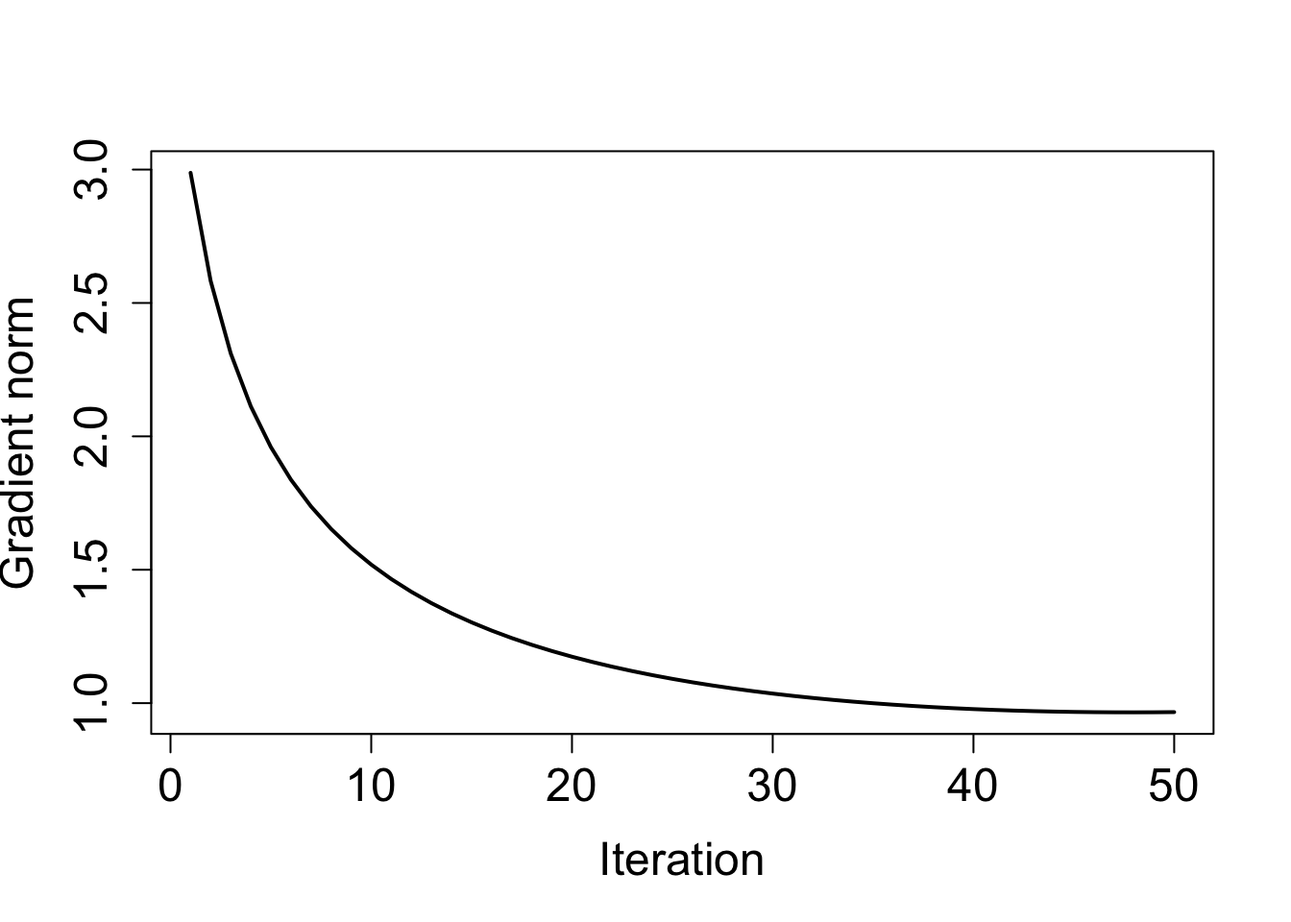
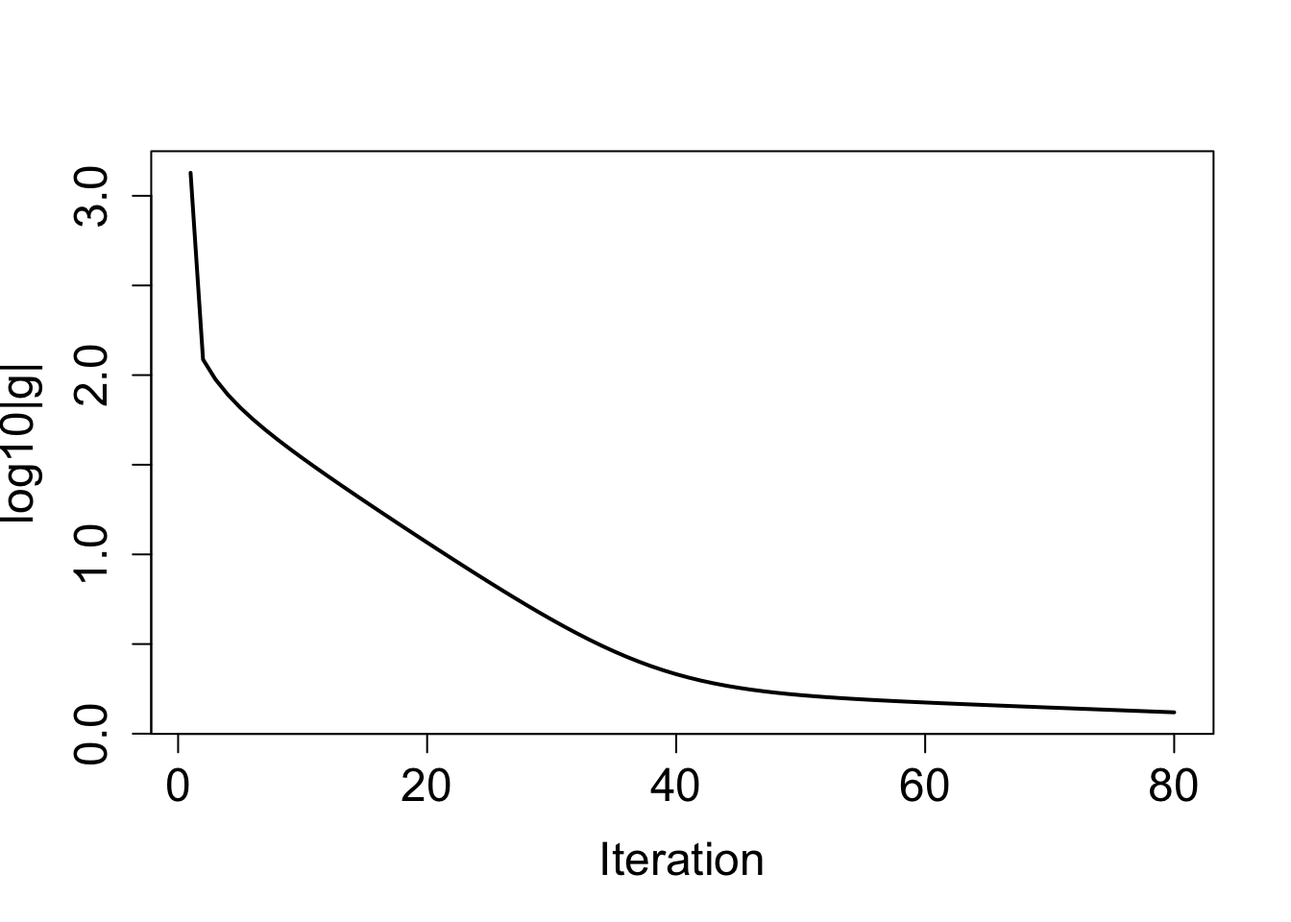
update predator-prey
FossilOrigin-Name: d74cfb4571f42729bfbab4a6f4a8c74286447cb65f26eedfba6759e423d97d23

diff --git a/docs/posts/predator-prey.html b/docs/posts/predator-prey.html
@@ -324,7 +324,7 @@ L(\mathbf{x}, \mathbf{z}, \lambda) = J(\mathbf{x}, z_1, \dots, z_{N}) - \lambda_
 \tag{2}\]</span></span></p>
 <p>ここで<span class="math inline">\(\boldsymbol\lambda = (\lambda_1,\dots,\lambda_{N+1})^\mathrm{T}\)</span>はLagrangeの未定乗数である。 Lagrange函数の鞍点は、<span class="math inline">\(\mathbf{x},\mathbf{z}, \boldsymbol\lambda\)</span>空間で<span class="math inline">\(L\)</span>の微分が同時に0に一点である。 鞍点では、<span class="math inline">\(\partial L/\partial \boldsymbol\lambda\)</span>から支配方程式(<a href="#eq-predator-prey-forward" class="quarto-xref">Equation&nbsp;1</a>) が得られる。</p>
 <p>また、<span class="math inline">\(\partial L/\partial \mathbf{z}\)</span>から随伴方程式 <span id="eq-predator-prey-adjoint"><span class="math display">\[
-\lambda_{N+1} = 1,\;\lambda_n = \sum_{i=n+1}^{N+1} \frac{\partial f_i}{\partial z_n}\lambda_{i} ,\;n = N, \dots, 1
+\lambda_{N+1} = \frac{\partial J}{\partial z_{N+1}},\;\lambda_n = \frac{\partial J}{\partial z_n} + \sum_{i=n+1}^{N+1} \frac{\partial f_i}{\partial z_n}\lambda_{i} ,\;n = N, \dots, 1
 \tag{3}\]</span></span> が得られる。</p>
 <p>さらに、<span class="math inline">\(\partial L/\partial \mathbf{x}\)</span>からコスト函数の入力に対する微分、</p>
 <p><span class="math display">\[
@@ -379,30 +379,39 @@ L = \dots -\lambda_Y(Y - G(X, \dots)) - \lambda_Z(Z - F(X, Y, \dots)) + \dots
 <span id="cb4-10"><a href="#cb4-10" aria-hidden="true" tabindex="-1"></a>  <span class="fu">list</span>(<span class="at">x =</span> x, <span class="at">y =</span> y)</span>
 <span id="cb4-11"><a href="#cb4-11" aria-hidden="true" tabindex="-1"></a>}</span>
 <span id="cb4-12"><a href="#cb4-12" aria-hidden="true" tabindex="-1"></a></span>
-<span id="cb4-13"><a href="#cb4-13" aria-hidden="true" tabindex="-1"></a>adjoint <span class="ot">&lt;-</span> <span class="cf">function</span>(dt, a, x, y) {</span>
+<span id="cb4-13"><a href="#cb4-13" aria-hidden="true" tabindex="-1"></a>adjoint <span class="ot">&lt;-</span> <span class="cf">function</span>(dt, a, x, y, xo, yo, tobs) {</span>
 <span id="cb4-14"><a href="#cb4-14" aria-hidden="true" tabindex="-1"></a>  nmax <span class="ot">&lt;-</span> <span class="fu">length</span>(x)</span>
 <span id="cb4-15"><a href="#cb4-15" aria-hidden="true" tabindex="-1"></a>  aa <span class="ot">&lt;-</span> <span class="fu">rep</span>(<span class="dv">0</span>, <span class="fu">length</span>(a))</span>
-<span id="cb4-16"><a href="#cb4-16" aria-hidden="true" tabindex="-1"></a>  ax <span class="ot">&lt;-</span> <span class="fu">rep</span>(<span class="dv">0</span>, nmax<span class="sc">+</span><span class="dv">1</span>)</span>
-<span id="cb4-17"><a href="#cb4-17" aria-hidden="true" tabindex="-1"></a>  ay <span class="ot">&lt;-</span> <span class="fu">rep</span>(<span class="dv">0</span>, nmax<span class="sc">+</span><span class="dv">1</span>)</span>
-<span id="cb4-18"><a href="#cb4-18" aria-hidden="true" tabindex="-1"></a>  ax[nmax<span class="sc">+</span><span class="dv">1</span>] <span class="ot">&lt;-</span> <span class="dv">1</span></span>
-<span id="cb4-19"><a href="#cb4-19" aria-hidden="true" tabindex="-1"></a>  ay[nmax<span class="sc">+</span><span class="dv">1</span>] <span class="ot">&lt;-</span> <span class="dv">1</span></span>
-<span id="cb4-20"><a href="#cb4-20" aria-hidden="true" tabindex="-1"></a>  <span class="cf">for</span> (n <span class="cf">in</span> (nmax)<span class="sc">:</span><span class="dv">1</span>) {</span>
-<span id="cb4-21"><a href="#cb4-21" aria-hidden="true" tabindex="-1"></a>    aa[<span class="dv">6</span>] <span class="ot">&lt;-</span> aa[<span class="dv">6</span>] <span class="sc">+</span> dt <span class="sc">*</span> x[n] <span class="sc">*</span> y[n] <span class="sc">*</span> ay[n<span class="sc">+</span><span class="dv">1</span>]</span>
-<span id="cb4-22"><a href="#cb4-22" aria-hidden="true" tabindex="-1"></a>    aa[<span class="dv">5</span>] <span class="ot">&lt;-</span> aa[<span class="dv">5</span>] <span class="sc">+</span> dt <span class="sc">*</span> y[n] <span class="sc">*</span> y[n] <span class="sc">*</span> ay[n<span class="sc">+</span><span class="dv">1</span>]</span>
-<span id="cb4-23"><a href="#cb4-23" aria-hidden="true" tabindex="-1"></a>    aa[<span class="dv">4</span>] <span class="ot">&lt;-</span> aa[<span class="dv">4</span>] <span class="sc">+</span> dt <span class="sc">*</span> y[n] <span class="sc">*</span> ay[n<span class="sc">+</span><span class="dv">1</span>]</span>
-<span id="cb4-24"><a href="#cb4-24" aria-hidden="true" tabindex="-1"></a>    ax[n] <span class="ot">&lt;-</span> ax[n] <span class="sc">+</span> dt <span class="sc">*</span> a[<span class="dv">6</span>] <span class="sc">*</span> y[n] <span class="sc">*</span> ay[n<span class="sc">+</span><span class="dv">1</span>]</span>
-<span id="cb4-25"><a href="#cb4-25" aria-hidden="true" tabindex="-1"></a>    ay[n] <span class="ot">&lt;-</span> ay[n] <span class="sc">+</span> dt <span class="sc">*</span> a[<span class="dv">5</span>] <span class="sc">*</span> y[n] <span class="sc">*</span> ay[n<span class="sc">+</span><span class="dv">1</span>]</span>
-<span id="cb4-26"><a href="#cb4-26" aria-hidden="true" tabindex="-1"></a>    ay[n] <span class="ot">&lt;-</span> ay[n]  <span class="sc">+</span> (<span class="dv">1</span> <span class="sc">+</span> dt <span class="sc">*</span> (a[<span class="dv">4</span>] <span class="sc">+</span> a[<span class="dv">5</span>] <span class="sc">*</span> y[n] <span class="sc">+</span> a[<span class="dv">6</span>] <span class="sc">*</span> x[n])) <span class="sc">*</span> ay[n<span class="sc">+</span><span class="dv">1</span>]</span>
-<span id="cb4-27"><a href="#cb4-27" aria-hidden="true" tabindex="-1"></a>    aa[<span class="dv">3</span>] <span class="ot">&lt;-</span> aa[<span class="dv">3</span>] <span class="sc">+</span> dt <span class="sc">*</span> y[n] <span class="sc">*</span> x[n] <span class="sc">*</span> ax[n<span class="sc">+</span><span class="dv">1</span>]</span>
-<span id="cb4-28"><a href="#cb4-28" aria-hidden="true" tabindex="-1"></a>    aa[<span class="dv">2</span>] <span class="ot">&lt;-</span> aa[<span class="dv">2</span>] <span class="sc">+</span> dt <span class="sc">*</span> x[n] <span class="sc">*</span> x[n] <span class="sc">*</span> ax[n<span class="sc">+</span><span class="dv">1</span>]</span>
-<span id="cb4-29"><a href="#cb4-29" aria-hidden="true" tabindex="-1"></a>    aa[<span class="dv">1</span>] <span class="ot">&lt;-</span> aa[<span class="dv">1</span>] <span class="sc">+</span> dt <span class="sc">*</span> x[n] <span class="sc">*</span> ax[n<span class="sc">+</span><span class="dv">1</span>]</span>
-<span id="cb4-30"><a href="#cb4-30" aria-hidden="true" tabindex="-1"></a>    ay[n] <span class="ot">&lt;-</span> ay[n] <span class="sc">+</span> dt <span class="sc">*</span> a[<span class="dv">3</span>] <span class="sc">*</span> x[n] <span class="sc">*</span> ax[n<span class="sc">+</span><span class="dv">1</span>]</span>
-<span id="cb4-31"><a href="#cb4-31" aria-hidden="true" tabindex="-1"></a>    ax[n] <span class="ot">&lt;-</span> ax[n] <span class="sc">+</span> dt <span class="sc">*</span> a[<span class="dv">2</span>] <span class="sc">*</span> x[n] <span class="sc">*</span> ax[n<span class="sc">+</span><span class="dv">1</span>]</span>
-<span id="cb4-32"><a href="#cb4-32" aria-hidden="true" tabindex="-1"></a>    ax[n] <span class="ot">&lt;-</span> ax[n] <span class="sc">+</span> (<span class="dv">1</span> <span class="sc">+</span> dt <span class="sc">*</span> (a[<span class="dv">1</span>] <span class="sc">+</span> a[<span class="dv">2</span>] <span class="sc">*</span> x[n] <span class="sc">+</span> a[<span class="dv">3</span>] <span class="sc">*</span> y[n])) <span class="sc">*</span> ax[n<span class="sc">+</span><span class="dv">1</span>]</span>
-<span id="cb4-33"><a href="#cb4-33" aria-hidden="true" tabindex="-1"></a><span class="co">#    cat(n, ":", aa, ax[n], ay[n], "\n")</span></span>
-<span id="cb4-34"><a href="#cb4-34" aria-hidden="true" tabindex="-1"></a>  }</span>
-<span id="cb4-35"><a href="#cb4-35" aria-hidden="true" tabindex="-1"></a>  <span class="fu">c</span>(aa, ax[<span class="dv">1</span>], ay[<span class="dv">1</span>])</span>
-<span id="cb4-36"><a href="#cb4-36" aria-hidden="true" tabindex="-1"></a>}</span></code><button title="Copy to Clipboard" class="code-copy-button"><i class="bi"></i></button></pre></div>
+<span id="cb4-16"><a href="#cb4-16" aria-hidden="true" tabindex="-1"></a>  ax <span class="ot">&lt;-</span> <span class="fu">rep</span>(<span class="dv">0</span>, nmax)</span>
+<span id="cb4-17"><a href="#cb4-17" aria-hidden="true" tabindex="-1"></a>  ay <span class="ot">&lt;-</span> <span class="fu">rep</span>(<span class="dv">0</span>, nmax)</span>
+<span id="cb4-18"><a href="#cb4-18" aria-hidden="true" tabindex="-1"></a>  <span class="cf">for</span> (n <span class="cf">in</span> (nmax<span class="dv">-1</span>)<span class="sc">:</span><span class="dv">1</span>) {</span>
+<span id="cb4-19"><a href="#cb4-19" aria-hidden="true" tabindex="-1"></a><span class="co">#    if (n == 1) {</span></span>
+<span id="cb4-20"><a href="#cb4-20" aria-hidden="true" tabindex="-1"></a><span class="co">#      ax[2] &lt;- ax[2] * 2</span></span>
+<span id="cb4-21"><a href="#cb4-21" aria-hidden="true" tabindex="-1"></a><span class="co">#      ay[2] &lt;- ay[2] * 2</span></span>
+<span id="cb4-22"><a href="#cb4-22" aria-hidden="true" tabindex="-1"></a><span class="co">#    }</span></span>
+<span id="cb4-23"><a href="#cb4-23" aria-hidden="true" tabindex="-1"></a>    aa[<span class="dv">6</span>] <span class="ot">&lt;-</span> aa[<span class="dv">6</span>] <span class="sc">+</span> dt <span class="sc">*</span> x[n] <span class="sc">*</span> y[n] <span class="sc">*</span> ay[n<span class="sc">+</span><span class="dv">1</span>]</span>
+<span id="cb4-24"><a href="#cb4-24" aria-hidden="true" tabindex="-1"></a>    aa[<span class="dv">5</span>] <span class="ot">&lt;-</span> aa[<span class="dv">5</span>] <span class="sc">+</span> dt <span class="sc">*</span> y[n] <span class="sc">*</span> y[n] <span class="sc">*</span> ay[n<span class="sc">+</span><span class="dv">1</span>]</span>
+<span id="cb4-25"><a href="#cb4-25" aria-hidden="true" tabindex="-1"></a>    aa[<span class="dv">4</span>] <span class="ot">&lt;-</span> aa[<span class="dv">4</span>] <span class="sc">+</span> dt <span class="sc">*</span> y[n] <span class="sc">*</span> ay[n<span class="sc">+</span><span class="dv">1</span>]</span>
+<span id="cb4-26"><a href="#cb4-26" aria-hidden="true" tabindex="-1"></a>    ax[n] <span class="ot">&lt;-</span> ax[n] <span class="sc">+</span> dt <span class="sc">*</span> a[<span class="dv">6</span>] <span class="sc">*</span> y[n] <span class="sc">*</span> ay[n<span class="sc">+</span><span class="dv">1</span>]</span>
+<span id="cb4-27"><a href="#cb4-27" aria-hidden="true" tabindex="-1"></a>    ay[n] <span class="ot">&lt;-</span> ay[n] <span class="sc">+</span> dt <span class="sc">*</span> a[<span class="dv">5</span>] <span class="sc">*</span> y[n] <span class="sc">*</span> ay[n<span class="sc">+</span><span class="dv">1</span>]</span>
+<span id="cb4-28"><a href="#cb4-28" aria-hidden="true" tabindex="-1"></a>    ay[n] <span class="ot">&lt;-</span> ay[n]  <span class="sc">+</span> (<span class="dv">1</span> <span class="sc">+</span> dt <span class="sc">*</span> (a[<span class="dv">4</span>] <span class="sc">+</span> a[<span class="dv">5</span>] <span class="sc">*</span> y[n] <span class="sc">+</span> a[<span class="dv">6</span>] <span class="sc">*</span> x[n])) <span class="sc">*</span> ay[n<span class="sc">+</span><span class="dv">1</span>]</span>
+<span id="cb4-29"><a href="#cb4-29" aria-hidden="true" tabindex="-1"></a>    aa[<span class="dv">3</span>] <span class="ot">&lt;-</span> aa[<span class="dv">3</span>] <span class="sc">+</span> dt <span class="sc">*</span> y[n] <span class="sc">*</span> x[n] <span class="sc">*</span> ax[n<span class="sc">+</span><span class="dv">1</span>]</span>
+<span id="cb4-30"><a href="#cb4-30" aria-hidden="true" tabindex="-1"></a>    aa[<span class="dv">2</span>] <span class="ot">&lt;-</span> aa[<span class="dv">2</span>] <span class="sc">+</span> dt <span class="sc">*</span> x[n] <span class="sc">*</span> x[n] <span class="sc">*</span> ax[n<span class="sc">+</span><span class="dv">1</span>]</span>
+<span id="cb4-31"><a href="#cb4-31" aria-hidden="true" tabindex="-1"></a>    aa[<span class="dv">1</span>] <span class="ot">&lt;-</span> aa[<span class="dv">1</span>] <span class="sc">+</span> dt <span class="sc">*</span> x[n] <span class="sc">*</span> ax[n<span class="sc">+</span><span class="dv">1</span>]</span>
+<span id="cb4-32"><a href="#cb4-32" aria-hidden="true" tabindex="-1"></a>    ay[n] <span class="ot">&lt;-</span> ay[n] <span class="sc">+</span> dt <span class="sc">*</span> a[<span class="dv">3</span>] <span class="sc">*</span> x[n] <span class="sc">*</span> ax[n<span class="sc">+</span><span class="dv">1</span>]</span>
+<span id="cb4-33"><a href="#cb4-33" aria-hidden="true" tabindex="-1"></a>    ax[n] <span class="ot">&lt;-</span> ax[n] <span class="sc">+</span> dt <span class="sc">*</span> a[<span class="dv">2</span>] <span class="sc">*</span> x[n] <span class="sc">*</span> ax[n<span class="sc">+</span><span class="dv">1</span>]</span>
+<span id="cb4-34"><a href="#cb4-34" aria-hidden="true" tabindex="-1"></a>    ax[n] <span class="ot">&lt;-</span> ax[n] <span class="sc">+</span> (<span class="dv">1</span> <span class="sc">+</span> dt <span class="sc">*</span> (a[<span class="dv">1</span>] <span class="sc">+</span> a[<span class="dv">2</span>] <span class="sc">*</span> x[n] <span class="sc">+</span> a[<span class="dv">3</span>] <span class="sc">*</span> y[n])) <span class="sc">*</span> ax[n<span class="sc">+</span><span class="dv">1</span>]</span>
+<span id="cb4-35"><a href="#cb4-35" aria-hidden="true" tabindex="-1"></a>    <span class="cf">if</span> (n <span class="sc">%in%</span> tobs) {</span>
+<span id="cb4-36"><a href="#cb4-36" aria-hidden="true" tabindex="-1"></a>      <span class="co"># add dJ/dx and dJ/dy</span></span>
+<span id="cb4-37"><a href="#cb4-37" aria-hidden="true" tabindex="-1"></a> <span class="co">#     cat("Observation at time:", n, "dx=", x[n] - xo[n], "dy", y[n] - yo[n], "\n")</span></span>
+<span id="cb4-38"><a href="#cb4-38" aria-hidden="true" tabindex="-1"></a>      ax[n] <span class="ot">&lt;-</span> ax[n] <span class="sc">+</span> (x[n] <span class="sc">-</span> xo[n])</span>
+<span id="cb4-39"><a href="#cb4-39" aria-hidden="true" tabindex="-1"></a>      ay[n] <span class="ot">&lt;-</span> ay[n] <span class="sc">+</span> (y[n] <span class="sc">-</span> yo[n])</span>
+<span id="cb4-40"><a href="#cb4-40" aria-hidden="true" tabindex="-1"></a>    }</span>
+<span id="cb4-41"><a href="#cb4-41" aria-hidden="true" tabindex="-1"></a> <span class="co">#   cat(n, ":", aa, ax[n], ay[n], "\n")</span></span>
+<span id="cb4-42"><a href="#cb4-42" aria-hidden="true" tabindex="-1"></a>  }</span>
+<span id="cb4-43"><a href="#cb4-43" aria-hidden="true" tabindex="-1"></a><span class="co">#  cat("Final adjoint state:", aa, "\n")</span></span>
+<span id="cb4-44"><a href="#cb4-44" aria-hidden="true" tabindex="-1"></a>  <span class="fu">c</span>(aa, ax[<span class="dv">1</span>], ay[<span class="dv">1</span>])</span>
+<span id="cb4-45"><a href="#cb4-45" aria-hidden="true" tabindex="-1"></a>}</span></code><button title="Copy to Clipboard" class="code-copy-button"><i class="bi"></i></button></pre></div>
 </div>
 </section>
 <section id="同化実験" class="level2">
@@ -411,18 +420,18 @@ L = \dots -\lambda_Y(Y - G(X, \dots)) - \lambda_Z(Z - F(X, Y, \dots)) + \dots
 <div class="cell">
 <div class="sourceCode cell-code" id="cb5"><pre class="sourceCode r code-with-copy"><code class="sourceCode r"><span id="cb5-1"><a href="#cb5-1" aria-hidden="true" tabindex="-1"></a>nmax <span class="ot">&lt;-</span> <span class="dv">501</span></span>
 <span id="cb5-2"><a href="#cb5-2" aria-hidden="true" tabindex="-1"></a>dt <span class="ot">&lt;-</span> <span class="fl">0.001</span></span>
-<span id="cb5-3"><a href="#cb5-3" aria-hidden="true" tabindex="-1"></a>a <span class="ot">&lt;-</span> <span class="fu">c</span>(<span class="dv">4</span>, <span class="sc">-</span><span class="dv">2</span>, <span class="sc">-</span><span class="dv">4</span>, <span class="sc">-</span><span class="dv">6</span>, <span class="dv">2</span>, <span class="dv">4</span>)</span>
+<span id="cb5-3"><a href="#cb5-3" aria-hidden="true" tabindex="-1"></a>at <span class="ot">&lt;-</span> <span class="fu">c</span>(<span class="dv">4</span>, <span class="sc">-</span><span class="dv">2</span>, <span class="sc">-</span><span class="dv">4</span>, <span class="sc">-</span><span class="dv">6</span>, <span class="dv">2</span>, <span class="dv">4</span>)</span>
 <span id="cb5-4"><a href="#cb5-4" aria-hidden="true" tabindex="-1"></a>x1 <span class="ot">&lt;-</span> <span class="dv">1</span></span>
 <span id="cb5-5"><a href="#cb5-5" aria-hidden="true" tabindex="-1"></a>y1 <span class="ot">&lt;-</span> <span class="dv">1</span></span>
 <span id="cb5-6"><a href="#cb5-6" aria-hidden="true" tabindex="-1"></a>tobs <span class="ot">&lt;-</span> <span class="fu">seq</span>(<span class="dv">2</span>, nmax, <span class="at">by =</span> <span class="dv">2</span>)</span>
-<span id="cb5-7"><a href="#cb5-7" aria-hidden="true" tabindex="-1"></a>forward.result <span class="ot">&lt;-</span> <span class="fu">forward</span>(dt, a, x1, y1, nmax)</span>
+<span id="cb5-7"><a href="#cb5-7" aria-hidden="true" tabindex="-1"></a>forward.result <span class="ot">&lt;-</span> <span class="fu">forward</span>(dt, at, x1, y1, nmax)</span>
 <span id="cb5-8"><a href="#cb5-8" aria-hidden="true" tabindex="-1"></a>xt <span class="ot">&lt;-</span> forward.result<span class="sc">$</span>x</span>
 <span id="cb5-9"><a href="#cb5-9" aria-hidden="true" tabindex="-1"></a>yt <span class="ot">&lt;-</span> forward.result<span class="sc">$</span>y</span></code><button title="Copy to Clipboard" class="code-copy-button"><i class="bi"></i></button></pre></div>
 </div>
 <p>真値から観測を作成する。</p>
 <div class="cell">
-<div class="sourceCode cell-code" id="cb6"><pre class="sourceCode r code-with-copy"><code class="sourceCode r"><span id="cb6-1"><a href="#cb6-1" aria-hidden="true" tabindex="-1"></a>xo <span class="ot">&lt;-</span> xt[tobs]</span>
-<span id="cb6-2"><a href="#cb6-2" aria-hidden="true" tabindex="-1"></a>yo <span class="ot">&lt;-</span> yt[tobs]</span></code><button title="Copy to Clipboard" class="code-copy-button"><i class="bi"></i></button></pre></div>
+<div class="sourceCode cell-code" id="cb6"><pre class="sourceCode r code-with-copy"><code class="sourceCode r"><span id="cb6-1"><a href="#cb6-1" aria-hidden="true" tabindex="-1"></a>xo <span class="ot">&lt;-</span> xt</span>
+<span id="cb6-2"><a href="#cb6-2" aria-hidden="true" tabindex="-1"></a>yo <span class="ot">&lt;-</span> yt</span></code><button title="Copy to Clipboard" class="code-copy-button"><i class="bi"></i></button></pre></div>
 </div>
 <div class="cell">
 <div class="sourceCode cell-code" id="cb7"><pre class="sourceCode r code-with-copy"><code class="sourceCode r"><span id="cb7-1"><a href="#cb7-1" aria-hidden="true" tabindex="-1"></a>calc.cost <span class="ot">&lt;-</span> <span class="cf">function</span>(xf, yf, xo, yo) {</span>
@@ -431,7 +440,7 @@ L = \dots -\lambda_Y(Y - G(X, \dots)) - \lambda_Z(Z - F(X, Y, \dots)) + \dots
 </div>
 <p>次に、観測値を同化して順行モデルのパラメタと初期値を推定する。</p>
 <div class="cell">
-<div class="sourceCode cell-code" id="cb8"><pre class="sourceCode r code-with-copy"><code class="sourceCode r"><span id="cb8-1"><a href="#cb8-1" aria-hidden="true" tabindex="-1"></a>lr <span class="ot">&lt;-</span> <span class="fl">0.03</span></span>
+<div class="sourceCode cell-code" id="cb8"><pre class="sourceCode r code-with-copy"><code class="sourceCode r"><span id="cb8-1"><a href="#cb8-1" aria-hidden="true" tabindex="-1"></a>lr <span class="ot">&lt;-</span> <span class="fl">0.001</span></span>
 <span id="cb8-2"><a href="#cb8-2" aria-hidden="true" tabindex="-1"></a>a <span class="ot">&lt;-</span> <span class="fu">c</span>(<span class="dv">1</span>, <span class="dv">0</span>, <span class="dv">0</span>, <span class="sc">-</span><span class="dv">1</span>, <span class="dv">0</span>, <span class="dv">0</span>)</span>
 <span id="cb8-3"><a href="#cb8-3" aria-hidden="true" tabindex="-1"></a>x1 <span class="ot">&lt;-</span> <span class="dv">2</span></span>
 <span id="cb8-4"><a href="#cb8-4" aria-hidden="true" tabindex="-1"></a>y1 <span class="ot">&lt;-</span> <span class="dv">2</span></span>
@@ -443,33 +452,29 @@ L = \dots -\lambda_Y(Y - G(X, \dots)) - \lambda_Z(Z - F(X, Y, \dots)) + \dots
 <span id="cb8-10"><a href="#cb8-10" aria-hidden="true" tabindex="-1"></a>xhist <span class="ot">&lt;-</span> <span class="fu">matrix</span>(<span class="fu">rep</span>(<span class="dv">0</span>, <span class="dv">8</span> <span class="sc">*</span> itermax), <span class="at">nrow =</span> <span class="dv">8</span>)</span>
 <span id="cb8-11"><a href="#cb8-11" aria-hidden="true" tabindex="-1"></a><span class="cf">for</span> (iter <span class="cf">in</span> <span class="dv">1</span><span class="sc">:</span> itermax) {</span>
 <span id="cb8-12"><a href="#cb8-12" aria-hidden="true" tabindex="-1"></a>  forward.result <span class="ot">&lt;-</span> <span class="fu">forward</span>(dt, a, x1, y1, nmax)</span>
-<span id="cb8-13"><a href="#cb8-13" aria-hidden="true" tabindex="-1"></a>  xf <span class="ot">&lt;-</span> forward.result<span class="sc">$</span>x[tobs]</span>
-<span id="cb8-14"><a href="#cb8-14" aria-hidden="true" tabindex="-1"></a>  yf <span class="ot">&lt;-</span> forward.result<span class="sc">$</span>y[tobs]</span>
-<span id="cb8-15"><a href="#cb8-15" aria-hidden="true" tabindex="-1"></a>  aa <span class="ot">&lt;-</span> <span class="fu">adjoint</span>(dt, a, xf, yf)</span>
+<span id="cb8-13"><a href="#cb8-13" aria-hidden="true" tabindex="-1"></a>  xf <span class="ot">&lt;-</span> forward.result<span class="sc">$</span>x</span>
+<span id="cb8-14"><a href="#cb8-14" aria-hidden="true" tabindex="-1"></a>  yf <span class="ot">&lt;-</span> forward.result<span class="sc">$</span>y</span>
+<span id="cb8-15"><a href="#cb8-15" aria-hidden="true" tabindex="-1"></a>  aa <span class="ot">&lt;-</span> <span class="fu">adjoint</span>(dt, a, xf, yf, xo, yo, tobs)</span>
 <span id="cb8-16"><a href="#cb8-16" aria-hidden="true" tabindex="-1"></a>  ghist[iter] <span class="ot">&lt;-</span> <span class="fu">sqrt</span>(<span class="fu">sum</span>(aa<span class="sc">^</span><span class="dv">2</span>))</span>
 <span id="cb8-17"><a href="#cb8-17" aria-hidden="true" tabindex="-1"></a>  <span class="cf">if</span> (ghist[iter] <span class="sc">&lt;</span> <span class="fl">1e-6</span>) {</span>
 <span id="cb8-18"><a href="#cb8-18" aria-hidden="true" tabindex="-1"></a>    <span class="fu">cat</span>(<span class="st">"Converged at iteration"</span>, iter, <span class="st">"with cost"</span>, chist[iter], <span class="st">"</span><span class="sc">\n</span><span class="st">"</span>)</span>
 <span id="cb8-19"><a href="#cb8-19" aria-hidden="true" tabindex="-1"></a>    <span class="cf">break</span></span>
 <span id="cb8-20"><a href="#cb8-20" aria-hidden="true" tabindex="-1"></a>  }</span>
-<span id="cb8-21"><a href="#cb8-21" aria-hidden="true" tabindex="-1"></a>  chist[iter] <span class="ot">&lt;-</span> <span class="fu">calc.cost</span>(xf, yf, xo, yo)</span>
+<span id="cb8-21"><a href="#cb8-21" aria-hidden="true" tabindex="-1"></a>  chist[iter] <span class="ot">&lt;-</span> <span class="fu">calc.cost</span>(xf[tobs], yf[tobs], xo[tobs], yo[tobs])</span>
 <span id="cb8-22"><a href="#cb8-22" aria-hidden="true" tabindex="-1"></a>  <span class="cf">if</span> (chist[iter] <span class="sc">&gt;=</span> chist[iter<span class="dv">-1</span>] <span class="sc">&amp;&amp;</span> iter <span class="sc">&gt;</span> <span class="dv">1</span>) {</span>
 <span id="cb8-23"><a href="#cb8-23" aria-hidden="true" tabindex="-1"></a>    <span class="fu">cat</span>(<span class="st">"Cost did not decrease at iteration"</span>, iter, <span class="st">"with cost"</span>, chist[iter], <span class="st">"</span><span class="sc">\n</span><span class="st">"</span>)</span>
 <span id="cb8-24"><a href="#cb8-24" aria-hidden="true" tabindex="-1"></a>    <span class="cf">break</span></span>
 <span id="cb8-25"><a href="#cb8-25" aria-hidden="true" tabindex="-1"></a>  }</span>
 <span id="cb8-26"><a href="#cb8-26" aria-hidden="true" tabindex="-1"></a>  xhist[, iter] <span class="ot">&lt;-</span> <span class="fu">c</span>(a, x1, y1)</span>
-<span id="cb8-27"><a href="#cb8-27" aria-hidden="true" tabindex="-1"></a><span class="co">#  cat("iter:", iter, "cost", chist[iter],  "a:", a, "x1:", x1, "y1:", y1, "\n")</span></span>
-<span id="cb8-28"><a href="#cb8-28" aria-hidden="true" tabindex="-1"></a><span class="co">#  cat("iter:", iter, "cost", chist[iter], "|g|", ghist[iter], "x1:", x1, "y1:", y1, "\n")</span></span>
-<span id="cb8-29"><a href="#cb8-29" aria-hidden="true" tabindex="-1"></a>  a <span class="ot">&lt;-</span> a <span class="sc">-</span> lr <span class="sc">*</span> aa[<span class="dv">1</span><span class="sc">:</span><span class="dv">6</span>]</span>
-<span id="cb8-30"><a href="#cb8-30" aria-hidden="true" tabindex="-1"></a>  x1 <span class="ot">&lt;-</span> x1 <span class="sc">-</span> lr <span class="sc">*</span> aa[<span class="dv">7</span>]</span>
-<span id="cb8-31"><a href="#cb8-31" aria-hidden="true" tabindex="-1"></a>  y1 <span class="ot">&lt;-</span> y1 <span class="sc">-</span> lr <span class="sc">*</span> aa[<span class="dv">8</span>]</span>
-<span id="cb8-32"><a href="#cb8-32" aria-hidden="true" tabindex="-1"></a>}</span></code><button title="Copy to Clipboard" class="code-copy-button"><i class="bi"></i></button></pre></div>
-<div class="cell-output cell-output-stdout">
-<pre><code>Cost did not decrease at iteration 50 with cost 1.011317 </code></pre>
-</div>
+<span id="cb8-27"><a href="#cb8-27" aria-hidden="true" tabindex="-1"></a><span class="co">#  cat("iter:", iter, "cost:", chist[iter], "|g|:", ghist[iter], "a:", a, "x1:", x1, "y1:", y1, "\n")</span></span>
+<span id="cb8-28"><a href="#cb8-28" aria-hidden="true" tabindex="-1"></a>  a <span class="ot">&lt;-</span> a <span class="sc">-</span> lr <span class="sc">*</span> aa[<span class="dv">1</span><span class="sc">:</span><span class="dv">6</span>]</span>
+<span id="cb8-29"><a href="#cb8-29" aria-hidden="true" tabindex="-1"></a>  x1 <span class="ot">&lt;-</span> x1 <span class="sc">-</span> lr <span class="sc">*</span> aa[<span class="dv">7</span>]</span>
+<span id="cb8-30"><a href="#cb8-30" aria-hidden="true" tabindex="-1"></a>  y1 <span class="ot">&lt;-</span> y1 <span class="sc">-</span> lr <span class="sc">*</span> aa[<span class="dv">8</span>]</span>
+<span id="cb8-31"><a href="#cb8-31" aria-hidden="true" tabindex="-1"></a>}</span></code><button title="Copy to Clipboard" class="code-copy-button"><i class="bi"></i></button></pre></div>
 </div>
 <div class="cell">
-<div class="sourceCode cell-code" id="cb10"><pre class="sourceCode r code-with-copy"><code class="sourceCode r"><span id="cb10-1"><a href="#cb10-1" aria-hidden="true" tabindex="-1"></a><span class="fu">plot</span>(chist[<span class="dv">1</span><span class="sc">:</span>iter], <span class="at">type =</span> <span class="st">"l"</span>, <span class="at">lwd =</span> <span class="dv">2</span>, <span class="at">xlab =</span> <span class="st">"Iteration"</span>, <span class="at">ylab =</span> <span class="st">"Cost"</span>,</span>
-<span id="cb10-2"><a href="#cb10-2" aria-hidden="true" tabindex="-1"></a>     <span class="at">cex.lab =</span> <span class="fl">1.5</span>, <span class="at">cex.axis =</span> <span class="fl">1.5</span>)</span></code><button title="Copy to Clipboard" class="code-copy-button"><i class="bi"></i></button></pre></div>
+<div class="sourceCode cell-code" id="cb9"><pre class="sourceCode r code-with-copy"><code class="sourceCode r"><span id="cb9-1"><a href="#cb9-1" aria-hidden="true" tabindex="-1"></a><span class="fu">plot</span>(<span class="fu">log10</span>(chist[<span class="dv">1</span><span class="sc">:</span>iter]), <span class="at">type =</span> <span class="st">"l"</span>, <span class="at">lwd =</span> <span class="dv">2</span>, <span class="at">xlab =</span> <span class="st">"Iteration"</span>, <span class="at">ylab =</span> <span class="st">"log10 J"</span>,</span>
+<span id="cb9-2"><a href="#cb9-2" aria-hidden="true" tabindex="-1"></a>     <span class="at">cex.lab =</span> <span class="fl">1.5</span>, <span class="at">cex.axis =</span> <span class="fl">1.5</span>)</span></code><button title="Copy to Clipboard" class="code-copy-button"><i class="bi"></i></button></pre></div>
 <div class="cell-output-display">
 <div>
 <figure class="figure">
@@ -479,12 +484,56 @@ L = \dots -\lambda_Y(Y - G(X, \dots)) - \lambda_Z(Z - F(X, Y, \dots)) + \dots
 </div>
 </div>
 <div class="cell">
-<div class="sourceCode cell-code" id="cb11"><pre class="sourceCode r code-with-copy"><code class="sourceCode r"><span id="cb11-1"><a href="#cb11-1" aria-hidden="true" tabindex="-1"></a><span class="fu">plot</span>(ghist[<span class="dv">1</span><span class="sc">:</span>iter], <span class="at">type =</span> <span class="st">"l"</span>, <span class="at">lwd =</span> <span class="dv">2</span>, <span class="at">xlab =</span> <span class="st">"Iteration"</span>, <span class="at">ylab =</span> <span class="st">"Gradient norm"</span>,</span>
-<span id="cb11-2"><a href="#cb11-2" aria-hidden="true" tabindex="-1"></a>     <span class="at">cex.lab =</span> <span class="fl">1.5</span>, <span class="at">cex.axis =</span> <span class="fl">1.5</span>)</span></code><button title="Copy to Clipboard" class="code-copy-button"><i class="bi"></i></button></pre></div>
+<div class="sourceCode cell-code" id="cb10"><pre class="sourceCode r code-with-copy"><code class="sourceCode r"><span id="cb10-1"><a href="#cb10-1" aria-hidden="true" tabindex="-1"></a><span class="fu">plot</span>(<span class="fu">log10</span>(ghist[<span class="dv">1</span><span class="sc">:</span>iter]), <span class="at">type =</span> <span class="st">"l"</span>, <span class="at">lwd =</span> <span class="dv">2</span>, <span class="at">xlab =</span> <span class="st">"Iteration"</span>, <span class="at">ylab =</span> <span class="st">"log10|g|"</span>,</span>
+<span id="cb10-2"><a href="#cb10-2" aria-hidden="true" tabindex="-1"></a>     <span class="at">cex.lab =</span> <span class="fl">1.5</span>, <span class="at">cex.axis =</span> <span class="fl">1.5</span>)</span></code><button title="Copy to Clipboard" class="code-copy-button"><i class="bi"></i></button></pre></div>
 <div class="cell-output-display">
 <div>
 <figure class="figure">
 <p><img src="predator-prey_files/figure-html/unnamed-chunk-10-1.png" class="img-fluid figure-img" width="672"></p>
+</figure>
+</div>
+</div>
+</div>
+<div class="cell">
+<div class="sourceCode cell-code" id="cb11"><pre class="sourceCode r code-with-copy"><code class="sourceCode r"><span id="cb11-1"><a href="#cb11-1" aria-hidden="true" tabindex="-1"></a><span class="fu">plot</span>(xhist[<span class="dv">7</span>,], <span class="at">ylim =</span> <span class="fu">c</span>(<span class="dv">0</span>, <span class="dv">2</span>), <span class="at">type =</span> <span class="st">"l"</span>, <span class="at">lwd =</span> <span class="dv">2</span>, <span class="at">xlab =</span> <span class="st">"Iteration"</span>, <span class="at">ylab =</span> <span class="st">"Initial conditions"</span>,</span>
+<span id="cb11-2"><a href="#cb11-2" aria-hidden="true" tabindex="-1"></a>     <span class="at">cex.lab =</span> <span class="fl">1.5</span>, <span class="at">cex.axis =</span> <span class="fl">1.5</span>)</span>
+<span id="cb11-3"><a href="#cb11-3" aria-hidden="true" tabindex="-1"></a><span class="fu">lines</span>(xhist[<span class="dv">8</span>,], <span class="at">lwd =</span> <span class="dv">2</span>, <span class="at">col =</span> <span class="st">"red"</span>)</span>
+<span id="cb11-4"><a href="#cb11-4" aria-hidden="true" tabindex="-1"></a><span class="fu">legend</span>(<span class="st">"topright"</span>, <span class="at">legend =</span> <span class="fu">c</span>(<span class="st">"x1"</span>, <span class="st">"y1"</span>),</span>
+<span id="cb11-5"><a href="#cb11-5" aria-hidden="true" tabindex="-1"></a>       <span class="at">col =</span> <span class="fu">c</span>(<span class="st">"black"</span>, <span class="st">"red"</span>), <span class="at">lwd =</span> <span class="dv">2</span>, <span class="at">cex =</span> <span class="fl">1.5</span>)</span></code><button title="Copy to Clipboard" class="code-copy-button"><i class="bi"></i></button></pre></div>
+<div class="cell-output-display">
+<div>
+<figure class="figure">
+<p><img src="predator-prey_files/figure-html/unnamed-chunk-11-1.png" class="img-fluid figure-img" width="672"></p>
+</figure>
+</div>
+</div>
+</div>
+<div class="cell">
+<div class="sourceCode cell-code" id="cb12"><pre class="sourceCode r code-with-copy"><code class="sourceCode r"><span id="cb12-1"><a href="#cb12-1" aria-hidden="true" tabindex="-1"></a><span class="fu">plot</span>(xhist[<span class="dv">1</span>,], <span class="at">ylim =</span> <span class="fu">c</span>(<span class="sc">-</span><span class="dv">10</span>, <span class="dv">10</span>), <span class="at">type =</span> <span class="st">"l"</span>, <span class="at">lwd =</span> <span class="dv">2</span>, <span class="at">xlab =</span> <span class="st">"Iteration"</span>, <span class="at">ylab =</span> <span class="st">"x parameters"</span>,</span>
+<span id="cb12-2"><a href="#cb12-2" aria-hidden="true" tabindex="-1"></a>     <span class="at">cex.lab =</span> <span class="fl">1.5</span>, <span class="at">cex.axis =</span> <span class="fl">1.5</span>)</span>
+<span id="cb12-3"><a href="#cb12-3" aria-hidden="true" tabindex="-1"></a><span class="fu">lines</span>(xhist[<span class="dv">2</span>,], <span class="at">lwd =</span> <span class="dv">2</span>, <span class="at">col =</span> <span class="st">"red"</span>)</span>
+<span id="cb12-4"><a href="#cb12-4" aria-hidden="true" tabindex="-1"></a><span class="fu">lines</span>(xhist[<span class="dv">3</span>,], <span class="at">lwd =</span> <span class="dv">2</span>, <span class="at">col =</span> <span class="st">"blue"</span>)</span>
+<span id="cb12-5"><a href="#cb12-5" aria-hidden="true" tabindex="-1"></a><span class="fu">legend</span>(<span class="st">"topright"</span>, <span class="at">legend =</span> <span class="fu">c</span>(<span class="st">"a1"</span>, <span class="st">"a2"</span>, <span class="st">"a3"</span>),</span>
+<span id="cb12-6"><a href="#cb12-6" aria-hidden="true" tabindex="-1"></a>       <span class="at">col =</span> <span class="fu">c</span>(<span class="st">"black"</span>, <span class="st">"red"</span>, <span class="st">"blue"</span>), <span class="at">lwd =</span> <span class="dv">2</span>, <span class="at">cex =</span> <span class="fl">1.5</span>)</span></code><button title="Copy to Clipboard" class="code-copy-button"><i class="bi"></i></button></pre></div>
+<div class="cell-output-display">
+<div>
+<figure class="figure">
+<p><img src="predator-prey_files/figure-html/unnamed-chunk-12-1.png" class="img-fluid figure-img" width="672"></p>
+</figure>
+</div>
+</div>
+</div>
+<div class="cell">
+<div class="sourceCode cell-code" id="cb13"><pre class="sourceCode r code-with-copy"><code class="sourceCode r"><span id="cb13-1"><a href="#cb13-1" aria-hidden="true" tabindex="-1"></a><span class="fu">plot</span>(xhist[<span class="dv">4</span>,], <span class="at">ylim =</span> <span class="fu">c</span>(<span class="sc">-</span><span class="dv">10</span>, <span class="dv">10</span>), <span class="at">type =</span> <span class="st">"l"</span>, <span class="at">lwd =</span> <span class="dv">2</span>, <span class="at">xlab =</span> <span class="st">"Iteration"</span>, <span class="at">ylab =</span> <span class="st">"y parameters"</span>,</span>
+<span id="cb13-2"><a href="#cb13-2" aria-hidden="true" tabindex="-1"></a>     <span class="at">cex.lab =</span> <span class="fl">1.5</span>, <span class="at">cex.axis =</span> <span class="fl">1.5</span>)</span>
+<span id="cb13-3"><a href="#cb13-3" aria-hidden="true" tabindex="-1"></a><span class="fu">lines</span>(xhist[<span class="dv">5</span>,], <span class="at">lwd =</span> <span class="dv">2</span>, <span class="at">col =</span> <span class="st">"red"</span>)</span>
+<span id="cb13-4"><a href="#cb13-4" aria-hidden="true" tabindex="-1"></a><span class="fu">lines</span>(xhist[<span class="dv">6</span>,], <span class="at">lwd =</span> <span class="dv">2</span>, <span class="at">col =</span> <span class="st">"blue"</span>)</span>
+<span id="cb13-5"><a href="#cb13-5" aria-hidden="true" tabindex="-1"></a><span class="fu">legend</span>(<span class="st">"topright"</span>, <span class="at">legend =</span> <span class="fu">c</span>(<span class="st">"a4"</span>, <span class="st">"a5"</span>, <span class="st">"a6"</span>),</span>
+<span id="cb13-6"><a href="#cb13-6" aria-hidden="true" tabindex="-1"></a>       <span class="at">col =</span> <span class="fu">c</span>(<span class="st">"black"</span>, <span class="st">"red"</span>, <span class="st">"blue"</span>), <span class="at">lwd =</span> <span class="dv">2</span>, <span class="at">cex =</span> <span class="fl">1.5</span>)</span></code><button title="Copy to Clipboard" class="code-copy-button"><i class="bi"></i></button></pre></div>
+<div class="cell-output-display">
+<div>
+<figure class="figure">
+<p><img src="predator-prey_files/figure-html/unnamed-chunk-13-1.png" class="img-fluid figure-img" width="672"></p>
 </figure>
 </div>
 </div>

diff --git a/docs/index.html b/docs/index.html
@@ -370,7 +370,7 @@ May 31, 2025
 </div>
 </a>
 </div>
-<div class="g-col-1" data-index="6" data-categories="bW9kZWwlMkNEQQ==" data-listing-date-sort="1748098800000" data-listing-file-modified-sort="1748937981942" data-listing-date-modified-sort="NaN" data-listing-reading-time-sort="6" data-listing-word-count-sort="1057">
+<div class="g-col-1" data-index="6" data-categories="bW9kZWwlMkNEQQ==" data-listing-date-sort="1748098800000" data-listing-file-modified-sort="1749200925712" data-listing-date-modified-sort="NaN" data-listing-reading-time-sort="7" data-listing-word-count-sort="1327">
 <a href="./posts/predator-prey.html" class="quarto-grid-link">
 <div class="quarto-grid-item card h-100 card-left">
 <p class="card-img-top"><img src="posts/predator-prey_files/figure-html/unnamed-chunk-2-1.png" style="height: 150px;"  class="thumbnail-image card-img"/></p>

diff --git a/docs/posts/vectorize.html b/docs/posts/vectorize.html
@@ -323,18 +323,18 @@ pre > code.sourceCode > span > a:first-child::before { text-decoration: underlin
         <tbody>
                 <tr>
                   <td>loop</td>
-                  <td>0.3715</td>
+                  <td>0.3668</td>
                   <td>1</td>
                 </tr>
                 <tr>
                   <td>apply</td>
-                  <td>0.5938</td>
-                  <td>0.63</td>
+                  <td>0.5979</td>
+                  <td>0.61</td>
                 </tr>
                 <tr>
                   <td>vec</td>
-                  <td>0.0025</td>
-                  <td>147.76</td>
+                  <td>0.0026</td>
+                  <td>139.95</td>
                 </tr>
         </tbody>
       </table>
